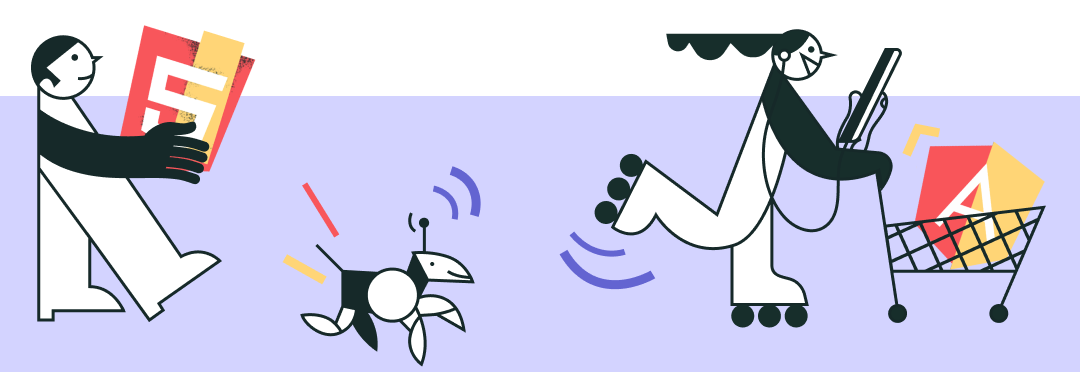
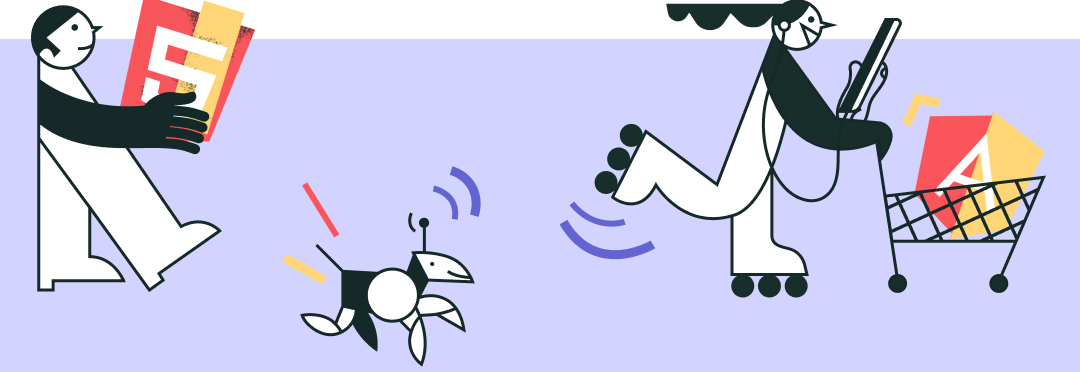
fix: COM-2547 320: Separator background image fix

diff --git a/components/Post/Body/Separator/Separator.jsx b/components/Post/Body/Separator/Separator.jsx
@@ -6,10 +6,10 @@ import styled from '@emotion/styled'
 import styles from './Separator.styles'
 import { backgroundCss } from '@csssr/csssr.images/dist/utils'
 
-const Separator = ({ className, sources, type }) => {
+const Separator = ({ className, sources, type, ...props }) => {
   return (
     <>
-      <hr className={cn(className, type)} />
+      <hr className={cn(className, type)} {...props} />
       <Global
         styles={css`
           ${backgroundCss(`.${className}::after`, sources)}

diff --git a/components/Post/Body/Separator/Separator.styles.js b/components/Post/Body/Separator/Separator.styles.js
@@ -90,6 +90,10 @@ const base = ({ breakpoints: { desktop, tablet, mobile }, lineColor }) => css`
       }
     }
 
+    &#peopleWithBasket {
+      height: ${calcRem(124)};
+    }
+
     &.bg-repeat {
       height: ${calcRem(100)};
 

diff --git a/_posts/en/html-or-cms-or-custom-development.md b/_posts/en/html-or-cms-or-custom-development.md
@@ -53,7 +53,7 @@ To help you decide which web development strategy is best for you, let’s look 
   <p>Who it’s best for: established companies looking to build an online store, aggregators, startups looking to build an online company, news sites</p>
 </ParagraphWithImage>
 
-<Separator type="color-line" lineColor="#D3D3FF" imageName="peopleWithBasket"/>
+<Separator id="peopleWithBasket" type="color-line" lineColor="#D3D3FF" imageName="peopleWithBasket"/>
 
 ## Conclusion
 
